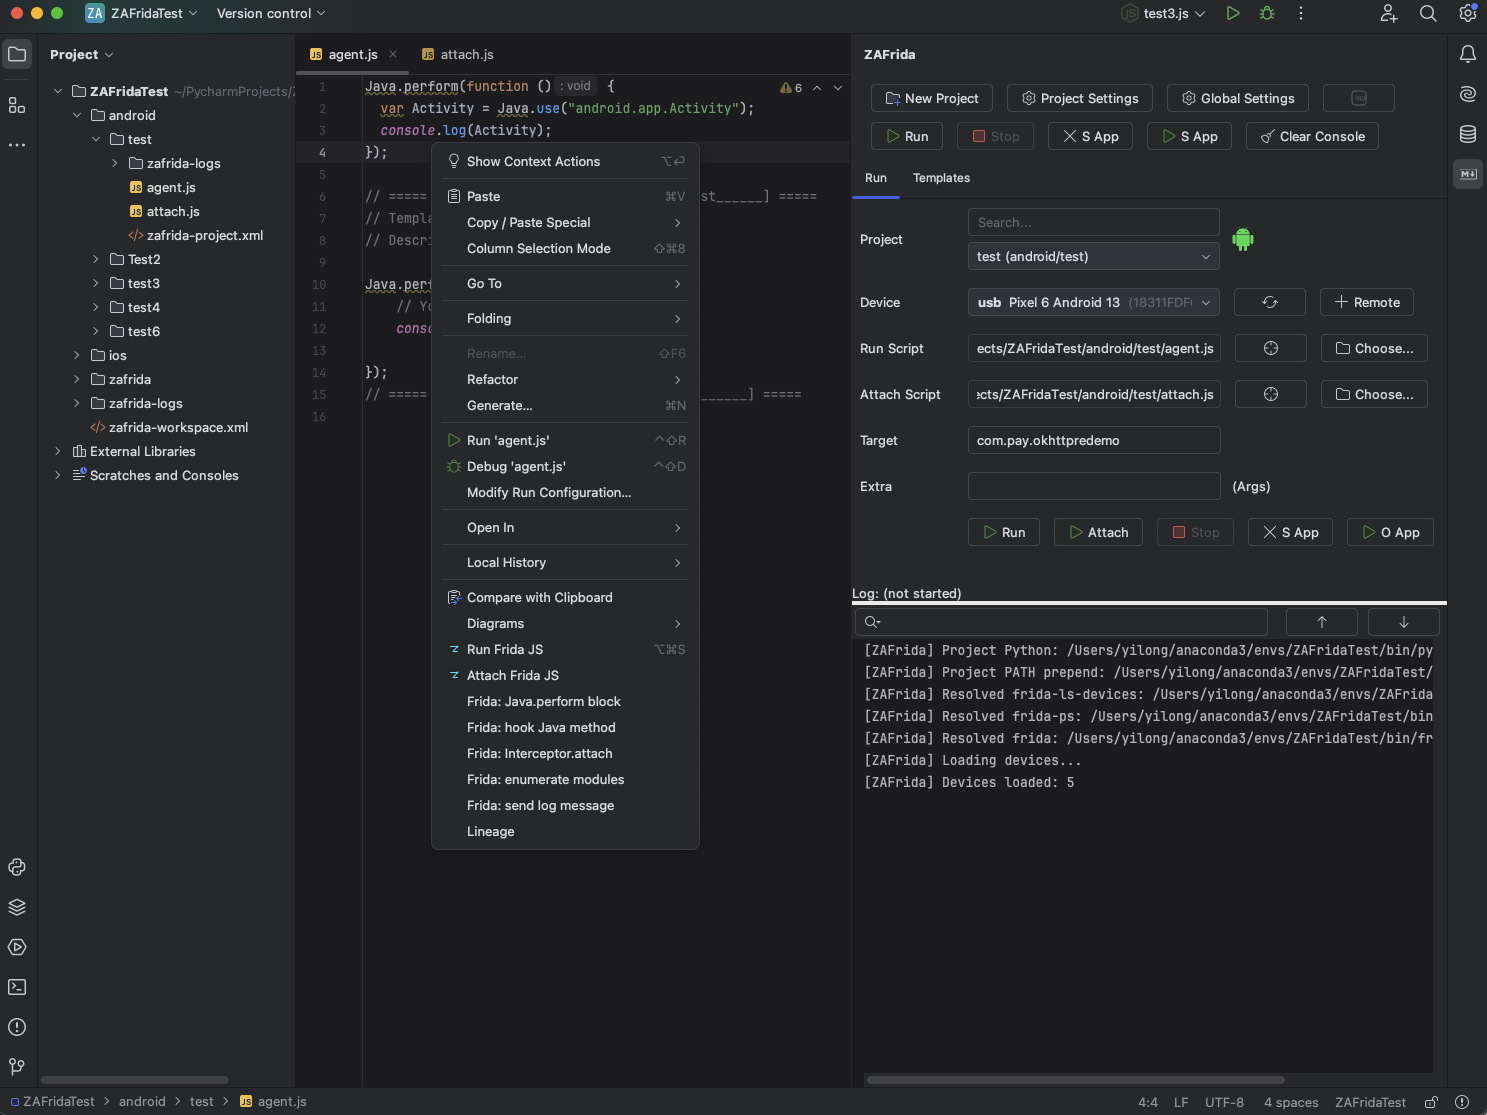
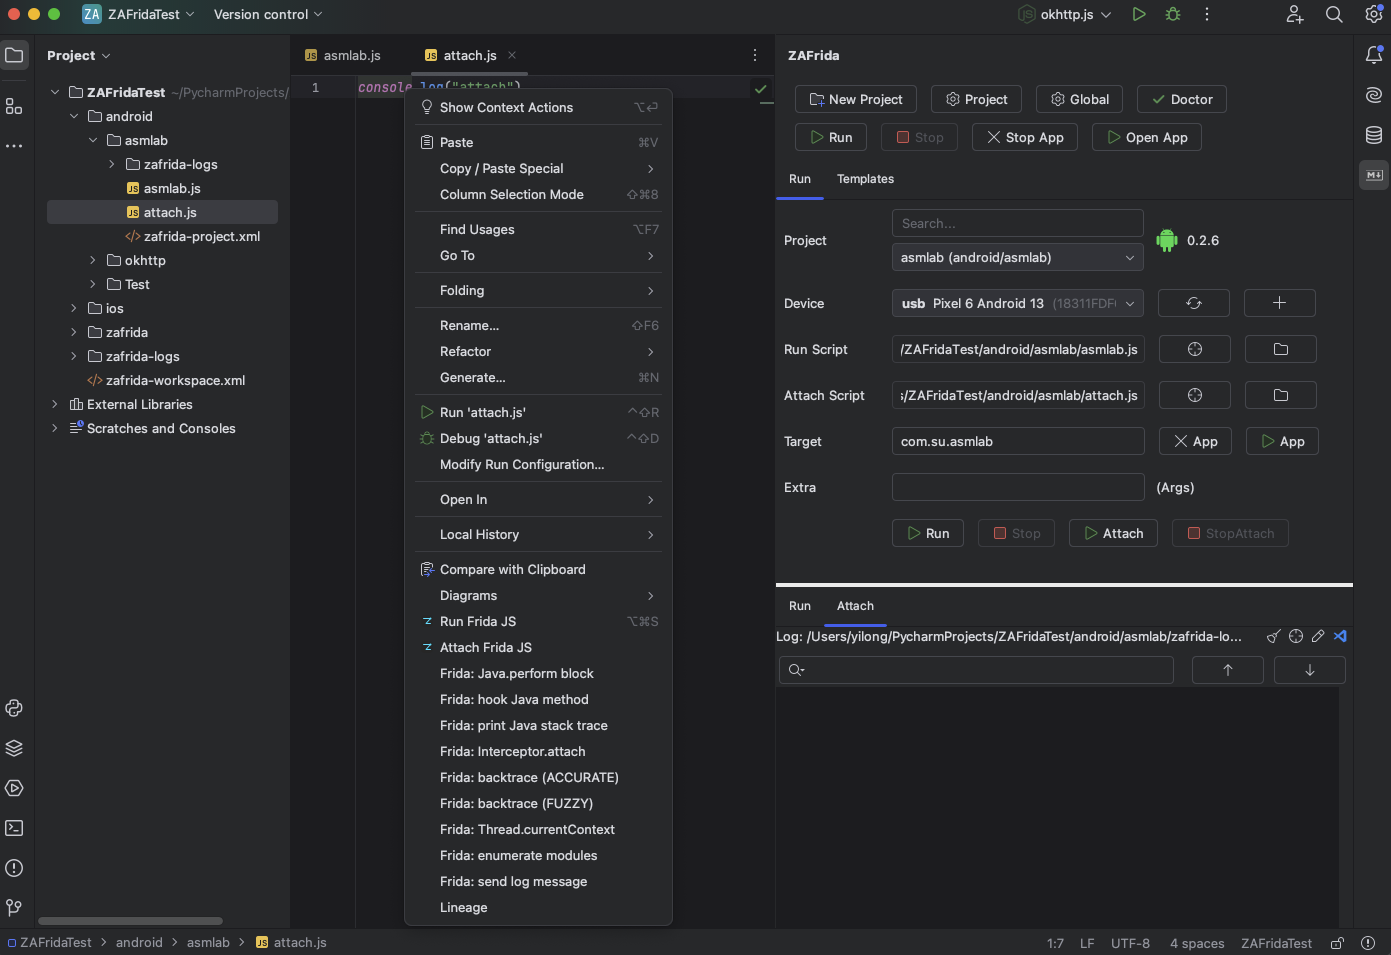
优化按钮增加按钮Tip

diff --git a/src/main/java/com/zafrida/ui/ui/ZaFridaRunPanel.java b/src/main/java/com/zafrida/ui/ui/ZaFridaRunPanel.java
@@ -104,20 +104,20 @@ public final class ZaFridaRunPanel extends JPanel implements Disposable {
     /** 刷新设备按钮 */
     private final JButton refreshDevicesBtn = new JButton("");
     /** 添加远程设备按钮 */
-    private final JButton addRemoteBtn = new JButton("Remote");
+    private final JButton addRemoteBtn = new JButton("");
 
     /** Run 脚本输入框 */
     private final JBTextField runScriptField = new JBTextField();
     /** 定位 Run 脚本按钮 */
     private final JButton locateRunScriptBtn = new JButton("");
     /** 选择 Run 脚本按钮 */
-    private final JButton chooseRunScriptBtn = new JButton("Choose...");
+    private final JButton chooseRunScriptBtn = new JButton("");
     /** Attach 脚本输入框 */
     private final JBTextField attachScriptField = new JBTextField();
     /** 定位 Attach 脚本按钮 */
     private final JButton locateAttachScriptBtn = new JButton("");
     /** 选择 Attach 脚本按钮 */
-    private final JButton chooseAttachScriptBtn = new JButton("Choose...");
+    private final JButton chooseAttachScriptBtn = new JButton("");
 
     /** 目标包名/进程输入框 */
     private final JBTextField targetField = new JBTextField();
@@ -127,14 +127,16 @@ public final class ZaFridaRunPanel extends JPanel implements Disposable {
 
     /** Run 按钮 */
     private final JButton runBtn = new JButton("Run");
-    /** Attach 按钮 */
-    private final JButton attachBtn = new JButton("Attach");
     /** Stop 按钮 */
     private final JButton stopBtn = new JButton("Stop");
+    /** Attach 按钮 */
+    private final JButton attachBtn = new JButton("Attach");
+    /** Stop Attach 按钮 */
+    private final JButton stopAttachBtn = new JButton("StopAttach");
     /** 强制停止按钮 */
-    private final JButton forceStopBtn = new JButton("S App");
+    private final JButton forceStopBtn = new JButton("App");
     /** 打开 App 按钮 */
-    private final JButton openAppBtn = new JButton("O App");
+    private final JButton openAppBtn = new JButton("App");
 
     /** 插件版本显示 */
     private final JLabel versionValueLabel = new JLabel();
@@ -252,12 +254,19 @@ public final class ZaFridaRunPanel extends JPanel implements Disposable {
         locateRunScriptBtn.setIcon(AllIcons.General.Locate);
         locateRunScriptBtn.setToolTipText("Locate run script in Project View");
         chooseRunScriptBtn.setIcon(AllIcons.Actions.MenuOpen);
+        chooseRunScriptBtn.setToolTipText("Choose run script");
         locateAttachScriptBtn.setIcon(AllIcons.General.Locate);
         locateAttachScriptBtn.setToolTipText("Locate attach script in Project View");
         chooseAttachScriptBtn.setIcon(AllIcons.Actions.MenuOpen);
+        chooseAttachScriptBtn.setToolTipText("Choose attach script");
         runBtn.setIcon(AllIcons.Actions.Execute);
+        runBtn.setToolTipText("Start Run session");
         attachBtn.setIcon(AllIcons.Actions.Execute);
+        attachBtn.setToolTipText("Start Attach session");
         stopBtn.setIcon(AllIcons.Actions.Suspend);
+        stopBtn.setToolTipText("Stop Run session");
+        stopAttachBtn.setIcon(AllIcons.Actions.Suspend);
+        stopAttachBtn.setToolTipText("Stop Attach session");
         forceStopBtn.setIcon(AllIcons.Actions.Cancel);
         forceStopBtn.setToolTipText("Force Stop App (adb force-stop)");
         openAppBtn.setIcon(AllIcons.Actions.Execute);
@@ -397,7 +406,8 @@ public final class ZaFridaRunPanel extends JPanel implements Disposable {
 
         runBtn.addActionListener(e -> runFrida());
         attachBtn.addActionListener(e -> attachFrida());
-        stopBtn.addActionListener(e -> stopFrida());
+        stopBtn.addActionListener(e -> stopRunSession());
+        stopAttachBtn.addActionListener(e -> stopAttachSession());
         forceStopBtn.addActionListener(e -> forceStopApp());
         openAppBtn.addActionListener(e -> openApp());
 
@@ -881,7 +891,7 @@ public final class ZaFridaRunPanel extends JPanel implements Disposable {
      */
     public void triggerStop() {
         if (!stopBtn.isEnabled()) return;
-        stopFrida();
+        stopRunSession();
     }
 
     /**
@@ -961,6 +971,8 @@ public final class ZaFridaRunPanel extends JPanel implements Disposable {
     private JPanel buildTargetRow() {
         JPanel p = new JPanel(new FlowLayout(FlowLayout.LEFT, 8, 0));
         p.add(targetField);
+        p.add(forceStopBtn);
+        p.add(openAppBtn);
         return p;
     }
 
@@ -982,10 +994,9 @@ public final class ZaFridaRunPanel extends JPanel implements Disposable {
     private JPanel buildButtonsRow() {
         JPanel p = new JPanel(new FlowLayout(FlowLayout.LEFT, 8, 0));
         p.add(runBtn);
-        p.add(attachBtn);
         p.add(stopBtn);
-        p.add(forceStopBtn);
-        p.add(openAppBtn);
+        p.add(attachBtn);
+        p.add(stopAttachBtn);
         return p;
     }
 
@@ -1753,8 +1764,15 @@ public final class ZaFridaRunPanel extends JPanel implements Disposable {
     /**
      * 停止当前会话。
      */
-    private void stopFrida() {
-        ZaFridaSessionType type = resolveActiveSessionType();
+    private void stopRunSession() {
+        stopSession(ZaFridaSessionType.RUN);
+    }
+
+    private void stopAttachSession() {
+        stopSession(ZaFridaSessionType.ATTACH);
+    }
+
+    private void stopSession(@NotNull ZaFridaSessionType type) {
         sessionService.stop(type);
         updateRunningState();
         resolveConsoleForSessionType(type).info("[ZAFrida] Stopped");
@@ -1863,18 +1881,9 @@ public final class ZaFridaRunPanel extends JPanel implements Disposable {
         boolean attachRunning = sessionService.isRunning(ZaFridaSessionType.ATTACH);
         runBtn.setEnabled(!runRunning);
         attachBtn.setEnabled(!attachRunning);
-        stopBtn.setEnabled(sessionService.isRunning(resolveActiveSessionType()));
+        stopBtn.setEnabled(runRunning);
+        stopAttachBtn.setEnabled(attachRunning);
         syncExternalRunStopButtons();
-    }
-
-    /**
-     * 根据当前控制台选中会话类型。
-     * @return 会话类型
-     */
-    private @NotNull ZaFridaSessionType resolveActiveSessionType() {
-        return consoleTabsPanel.getActiveConsolePanel() == attachConsolePanel
-                ? ZaFridaSessionType.ATTACH
-                : ZaFridaSessionType.RUN;
     }
 
     /**

diff --git a/src/main/java/com/zafrida/ui/ui/ZaFridaMainToolWindow.java b/src/main/java/com/zafrida/ui/ui/ZaFridaMainToolWindow.java
@@ -143,12 +143,12 @@ public final class ZaFridaMainToolWindow extends JPanel implements Disposable {
         stopBtn.setIcon(AllIcons.Actions.Suspend);
         stopBtn.addActionListener(e -> runPanel.triggerStop());
 
-        JButton forceStopBtn = new JButton("S App");
+        JButton forceStopBtn = new JButton("Stop App");
         forceStopBtn.setIcon(AllIcons.Actions.Cancel);
         forceStopBtn.setToolTipText("Force Stop App (adb force-stop)");
         forceStopBtn.addActionListener(e -> runPanel.triggerForceStop());
 
-        JButton openAppBtn = new JButton("O App");
+        JButton openAppBtn = new JButton("Open App");
         openAppBtn.setIcon(AllIcons.Actions.Execute);
         openAppBtn.setToolTipText("Open App (adb)");
         openAppBtn.addActionListener(e -> runPanel.triggerOpenApp());
